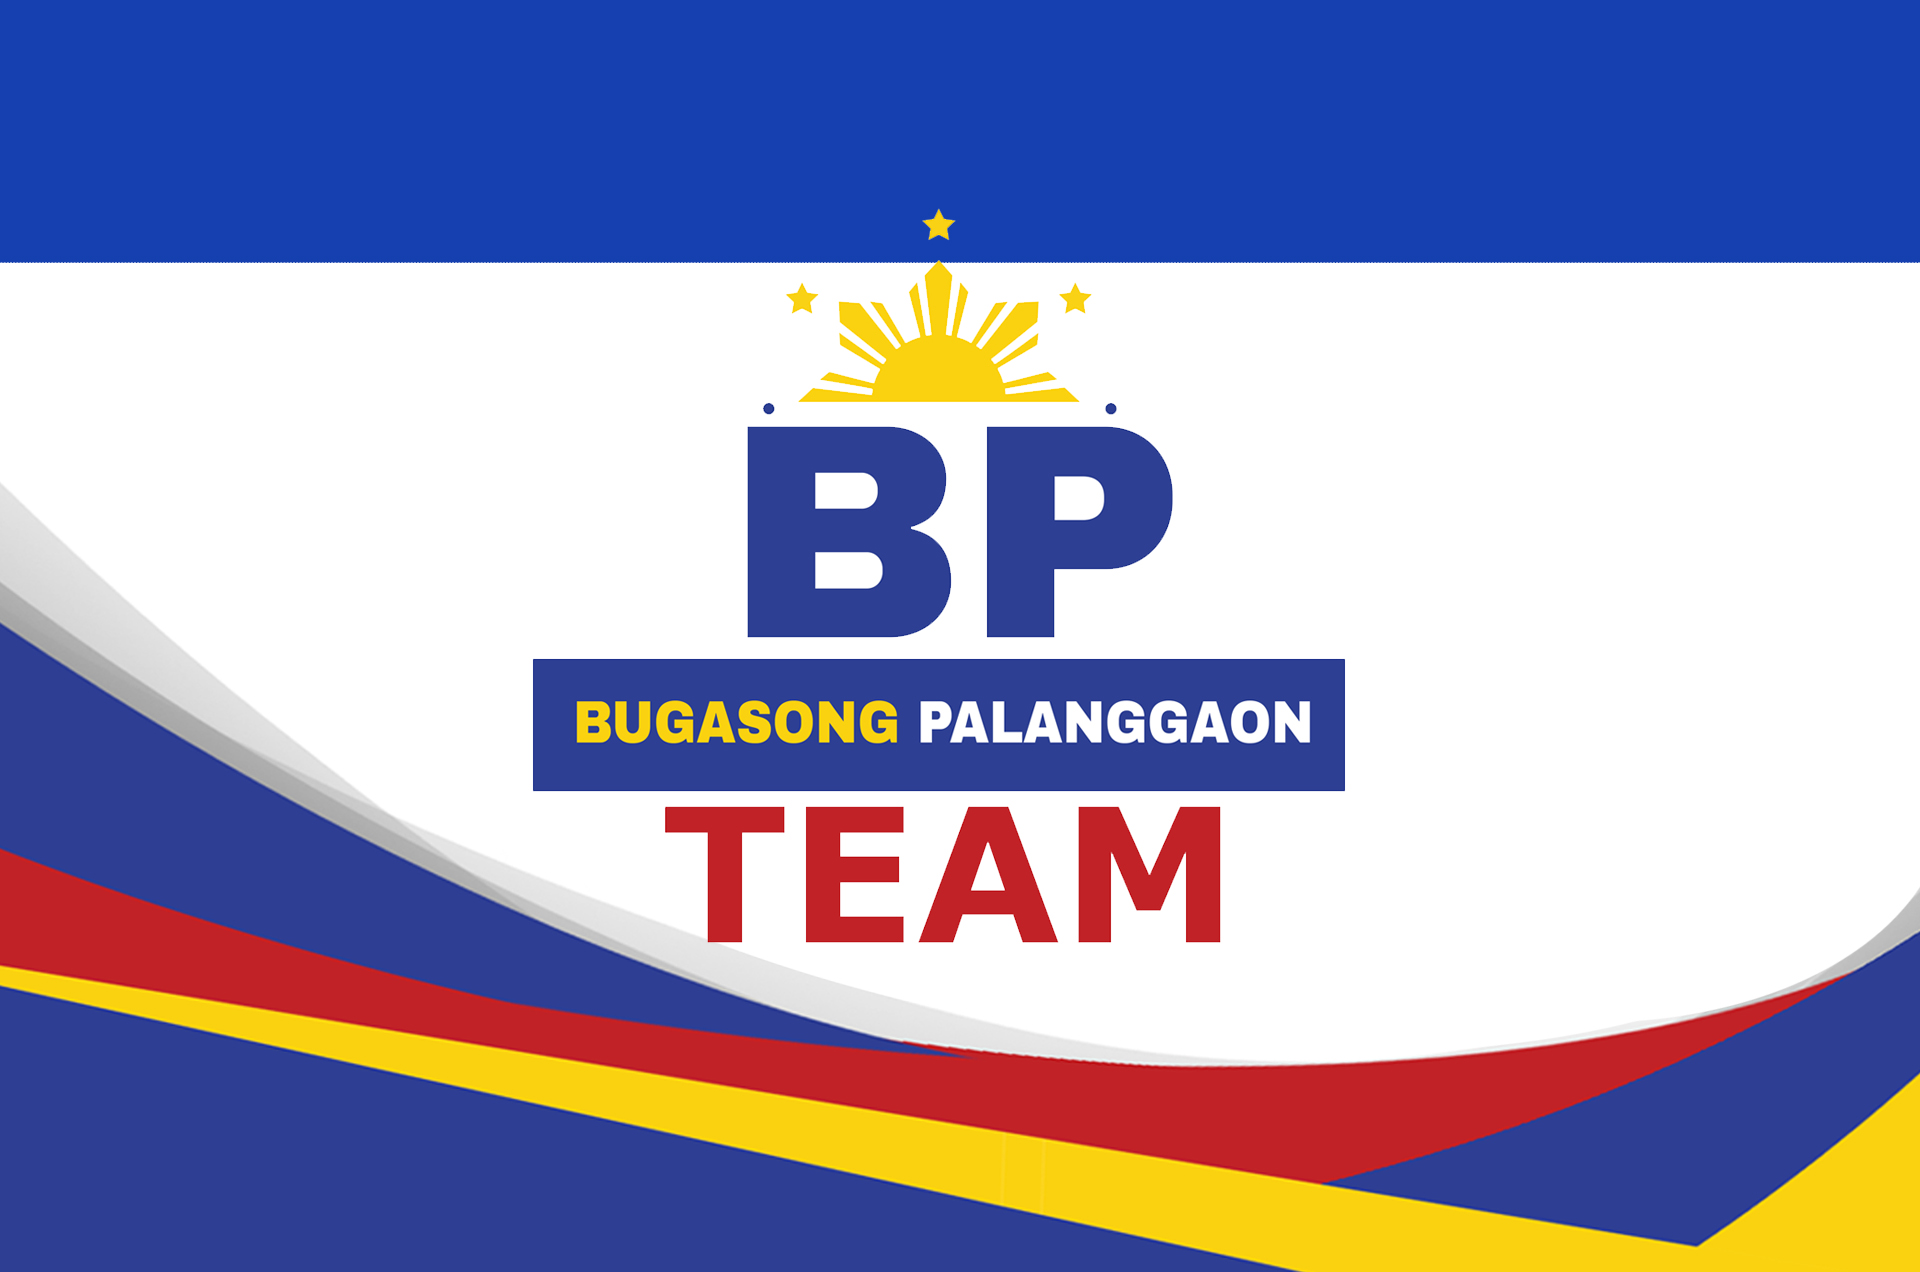
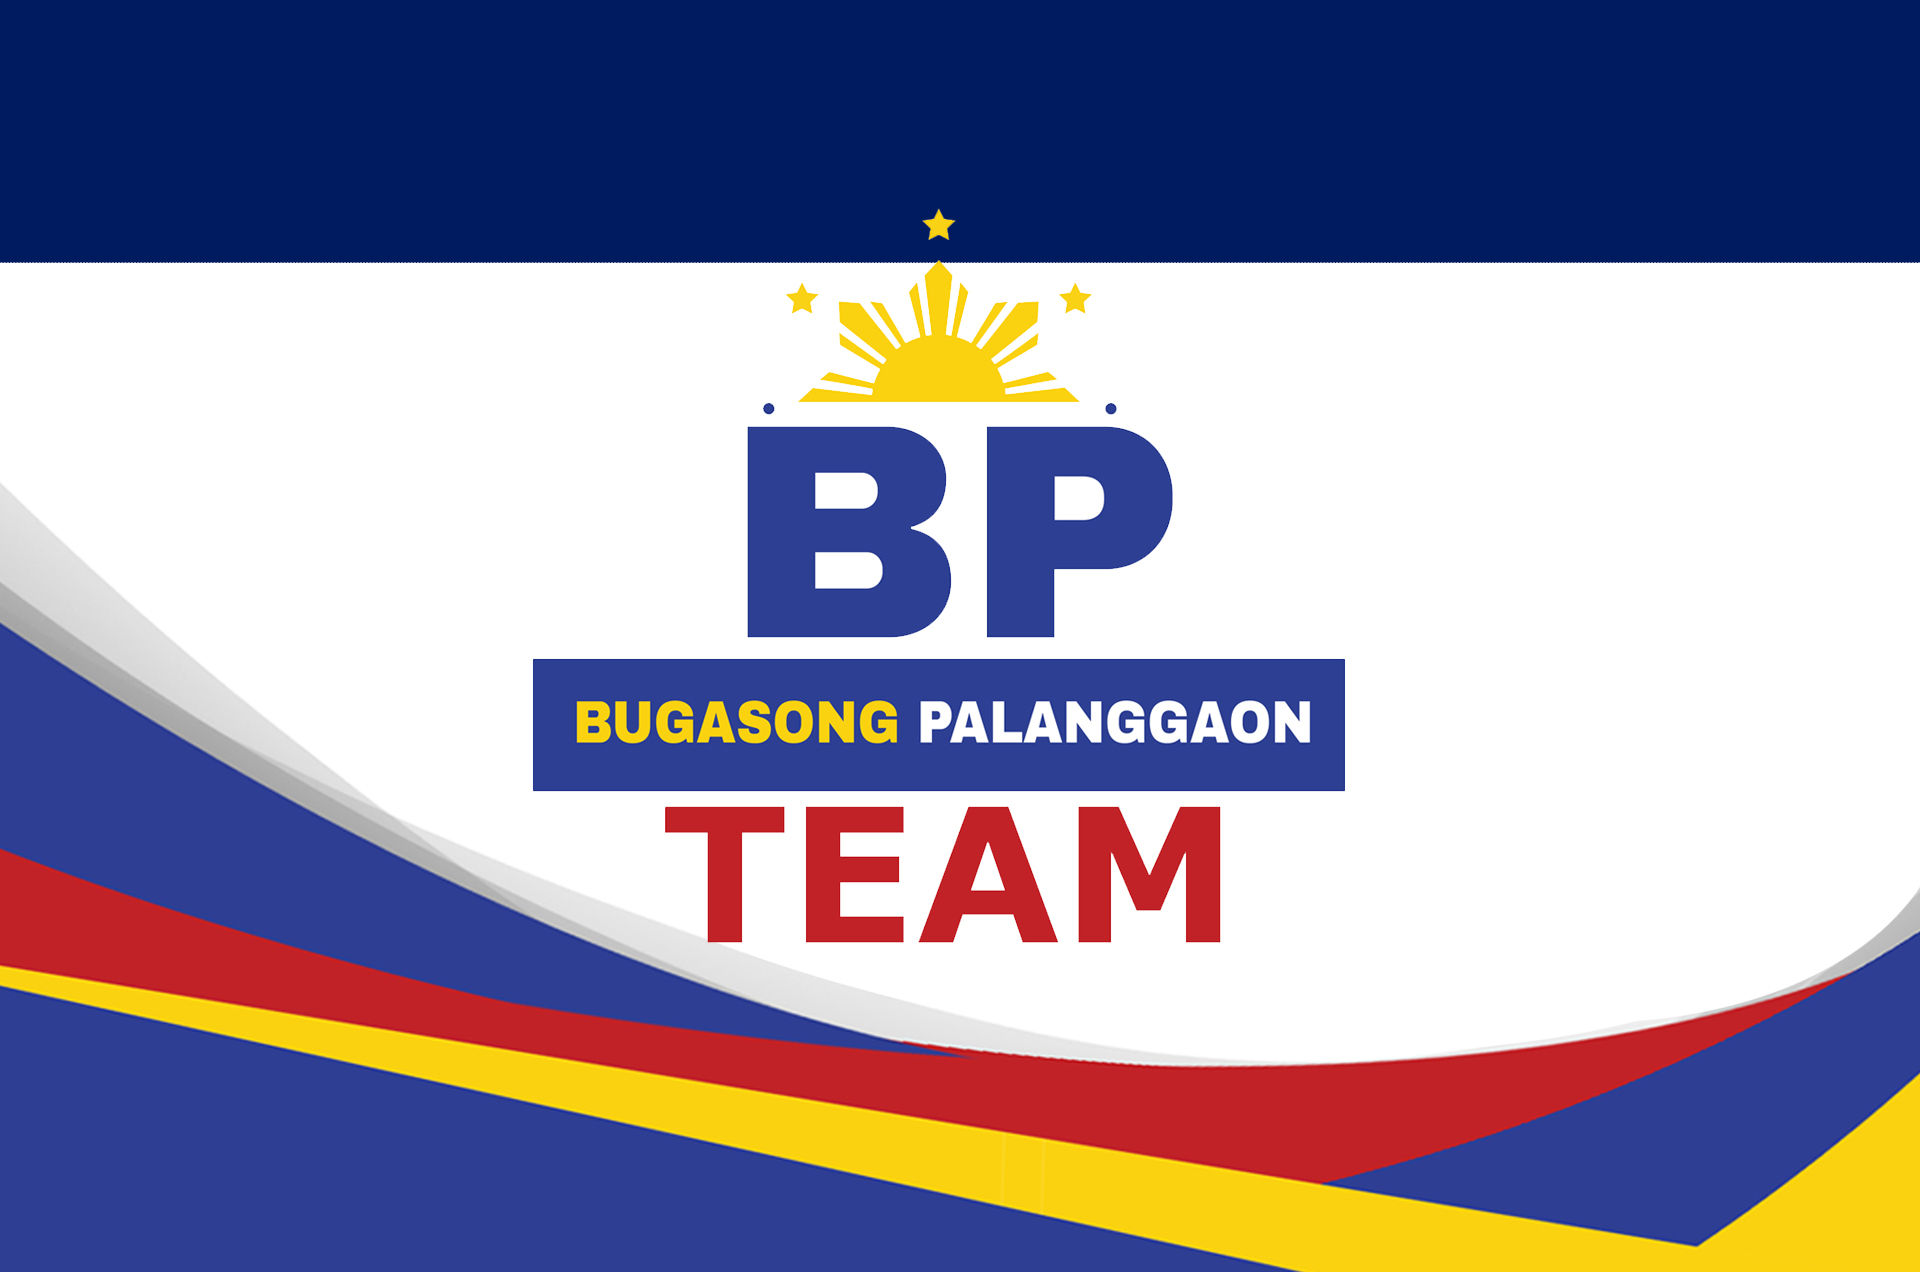
Add files via upload

Changed region(s): [[0.0, 0.0, 1.0, 0.2146]]

diff --git a/index.html b/index.html
@@ -205,7 +205,16 @@
 			<div class="container">
 				<div class="row">
 					<div class="col-md-8 col-md-offset-2">
-						<h1 class="text-center">Kami ja, handa magserbisyo kaninyo!!</h1>
+						<br>
+						<br>
+						<br>
+						<br>
+						<h1 class="text-center">Meet Our Campaign Team</h1>
+						<h2 class="text-center">Kami ja, handa magserbisyo kaninyo!!</h2>
+						<br>
+						<br>
+						<br>
+						<br>
 					</div>
 				</div>
 			</div>
@@ -733,7 +742,13 @@
 			<div class="container">
 				<div class="row">
 					<div class="col-md-8 col-md-offset-2">
-						<h1 class="text-center" id="News">Latest News</h1>							
+						
+						<br>
+						<br>
+						<h1 class="text-center" id="News">Latest News</h1>
+						<br>
+						<br>
+											
 					</div>
 
 
@@ -786,7 +801,15 @@
 			<div class="container">
 				<div class="row">
 					<div class="col-md-8 col-md-offset-2">
-						<h1 class="text-center" id="photo">Photo Gallery</h1>
+						
+						<br>
+						<br>
+						<h1 class="text-center" id="photo">Campaign Highlights</h1>
+						<h2 class="text-center" id="photo">	Explore images from our recent events and activities showcasing our journey and milestones.</h2>
+						
+						
+						<br>
+						<br>
 							
 
 
@@ -953,12 +976,25 @@ function showSlides() {
 			<div class="container">
 				<div class="row">
 					<div class="col-md-8 col-md-offset-2">
-						<h1 class="text-center">BP Team - Headquarters</h1>
+						<br>
+						<br>
+						<h1 class="text-center">Contact the BPTEAM Campaign</h1>
+					<h2 class="text-center">We are here to answer your questions and provide more information about how you can get involved.</h2>
+					<br>
+							<br>
+								<br>
+
 					</div>
 				</div>
 			</div>
 		</div>
 		<!-- section end -->
+
+
+
+
+
+
 
 		<!-- footer start -->
 		<!-- ================ -->
@@ -1023,6 +1059,39 @@ function showSlides() {
 			<!-- ================ -->
 
 
+		<!-- section end -->
+
+		<!-- section start -->
+		<!-- ================ -->
+			</div>
+		<!-- section end -->
+
+		<!-- section start -->
+		<!-- ================ -->
+		<div class="default-bg space">
+			<div class="container">
+				<div class="row">
+					<div class="col-md-8 col-md-offset-2">
+						<br>
+						<br>
+
+					
+						<h1 class="text-center" id="photo">Support Our Campaign</h1>
+					    <h2 class="text-center" id="photo">Join us in making a difference. Donate or volunteer today to support BPTeam vision.</h2>
+					
+						<br>
+						
+						<br>
+					</div>
+				</div>
+			</div>
+		</div>
+		<!-- section end -->
+
+	<br>
+	<br>
+		<br>
+			<br>
 <center><div class="mapouter"><div class="gmap_canvas"><iframe src="https://maps.google.com/maps?q=bugasong%20antique%20municipal&amp;t=&amp;z=9&amp;ie=UTF8&amp;iwloc=&amp;output=embed" frameborder="0" scrolling="no" style="width: 1080px; height: 400px;"></iframe><style>.mapouter{display:table;}.gmap_canvas{overflow:hidden;position:relative;height:400px;width:1080px;background:#fff;}</style><a href="https://www.taxuni.com/opm-fegli-calculator/">OPM FEGLI Calculator</a><style>.gmap_canvas iframe{position:relative !important;z-index:2 !important;}.gmap_canvas a{color:#fff !important;position:absolute !important;top:0 !important;left:0 !important;z-index:0 !important;}</style></div></div></center>
 
 <br>

diff --git a/css/style.css b/css/style.css
@@ -165,11 +165,11 @@ blockquote {
 /* Backgrounds
 ----------------------------------------------------------------------------- */
 .default-bg {
-	background-color: #222222;
+	background-color: #001b5f;
 	color: #ffffff;
 }
 .default-bg.blue {
-	background-color: #55acee;
+	background-color: #001b5f;
 }
 .translucent-bg {
 	color: #ffffff;
